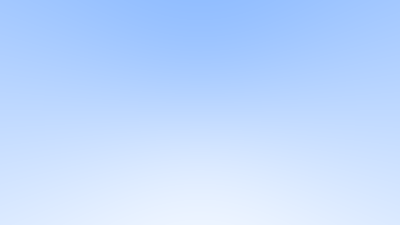
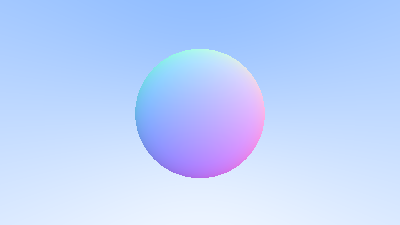
add shpere

Changed region(s): [[0.33, 0.2178, 0.66, 0.8089]]

diff --git a/src/main.rs b/src/main.rs
@@ -1,4 +1,5 @@
 pub mod ray;
+mod sphere;
 use ray::vec3::*;
 use ray::Ray;
 
@@ -7,7 +8,15 @@ fn cal_color(ordi: f64) -> u8 {
     (ordi * 255.99) as u8
 }
 
+fn cal_color_vec(point: Vec3) -> image::Rgb<u8> {
+    image::Rgb([cal_color(point.x), cal_color(point.y), cal_color(point.z)])
+}
 fn ray_color(ray: &Ray) -> image::Rgb<u8> {
+    let t_center = hit_sphere(Vec3::new(0.0, 0.0, -1.0), 0.5, ray);
+    if t_center > 0.0 {
+        let n = ray.at(t_center) - Vec3::new(0.0, 0.0, -1.0);
+        return cal_color_vec((n + 1.0) * 0.7);
+    }
     let unit_ray = uini_vec3(&ray.dir);
     let t = 0.5 * (unit_ray.y + 1.0);
     let t1 = 1.0 - t;
@@ -18,11 +27,17 @@ fn ray_color(ray: &Ray) -> image::Rgb<u8> {
     ])
 }
 
-fn hit_sphere(center: Vec3, radius: f64, ray: Ray) -> bool {
+fn hit_sphere(center: Vec3, radius: f64, ray: &Ray) -> f64 {
     let oc = ray.orig - center;
-    let a = Vec3::dot(ray.dir, ray.dir);
-    let b = Vec3::dot(oc, ray.dir) * 2.0;
-    let c = Vec3::dot(oc, oc) - radius * radius;
+    let a = ray.dir.length_squared();
+    let hafl_b = Vec3::dot(oc, ray.dir);
+    let c = oc.length_squared() - radius * radius;
+    let discirminant = hafl_b.powi(2) - a * c;
+    if discirminant < 0.0 {
+        -1.0
+    } else {
+        (-hafl_b - discirminant.sqrt()) / a
+    }
 }
 fn main() {
     let ratio = 16.0 / 9.0;

diff --git a/src/sphere.rs b/src/sphere.rs
@@ -1,0 +1,46 @@
+use super::ray::*;
+use vec3::Vec3;
+#[derive(Debug, Clone, Copy)]
+pub struct HitRecord {
+    p: Vec3,
+    normal: Vec3,
+    t: f64,
+}
+
+trait Hittable {
+    fn hit(self, ray: Ray, t_min: f64, t_max: f64, hit_record: &mut HitRecord) -> bool;
+}
+
+#[derive(Debug, Clone, Copy)]
+pub struct Sphere {
+    pub center: Vec3,
+    pub radius: f64,
+}
+
+impl Hittable for Sphere {
+    fn hit(self, ray: Ray, t_min: f64, t_max: f64, hit_record: &mut HitRecord) -> bool {
+        let oc = ray.orig - self.center;
+        let a = ray.dir.length_squared();
+        let half_b = Vec3::dot(oc, ray.dir);
+        let c = oc.length_squared() - self.radius.powi(2);
+
+        let discriminant = half_b.powi(2) - a * c;
+        if discriminant < 0.0 {
+            return false;
+        }
+        let sqrtd = discriminant.sqrt();
+
+        let mut root = (-half_b - sqrtd) / a;
+        if root < t_min || root > t_max {
+            root = (-half_b + sqrtd) / a;
+            if root < t_min || root > t_max {
+                return false;
+            }
+
+            hit_record.t = root;
+            hit_record.p = ray.at(root);
+            hit_record.normal = (hit_record.p - self.center) / self.radius;
+        }
+        todo!()
+    }
+}

diff --git a/src/ray/vec3.rs b/src/ray/vec3.rs
@@ -26,20 +26,16 @@ impl Vec3 {
     }
 
     pub fn length_squared(&self) -> f64 {
-        self.x.powf(2.0) + self.y.powf(2.0) + self.z.powf(2.0)
+        self.x.powi(2) + self.y.powi(2) + self.z.powi(2)
     }
 
     pub fn length(&self) -> f64 {
-        let ret = self.length_squared() as f64;
+        let ret = self.length_squared();
         ret.sqrt()
     }
 
-    pub fn dot(lhs: Self, rhs: Self) -> Self {
-        Self {
-            x: lhs.x * rhs.x,
-            y: lhs.y * rhs.y,
-            z: lhs.z * rhs.z,
-        }
+    pub fn dot(lhs: Self, rhs: Self) -> f64 {
+        lhs.x * rhs.x + lhs.y * rhs.y + lhs.z * rhs.z
     }
 
     pub fn cross(lhs: &Self, rhs: &Self) -> Self {
@@ -78,8 +74,15 @@ impl Sub<f64> for Vec3 {
     }
 }
 
-impl Add<f64> for Vec3{
+impl Add<f64> for Vec3 {
     type Output = Self;
+    fn add(self, rhs: f64) -> Self::Output {
+        Self {
+            x: self.x + rhs,
+            y: self.y + rhs,
+            z: self.z + rhs,
+        }
+    }
 }
 
 impl Div<f64> for Vec3 {

diff --git a/src/ray.rs b/src/ray.rs
@@ -1,6 +1,6 @@
 pub mod vec3;
 use vec3::Vec3;
-#[derive(Debug)]
+#[derive(Debug,Clone, Copy)]
 pub struct Ray {
     pub orig: Vec3,
     pub dir: Vec3,
